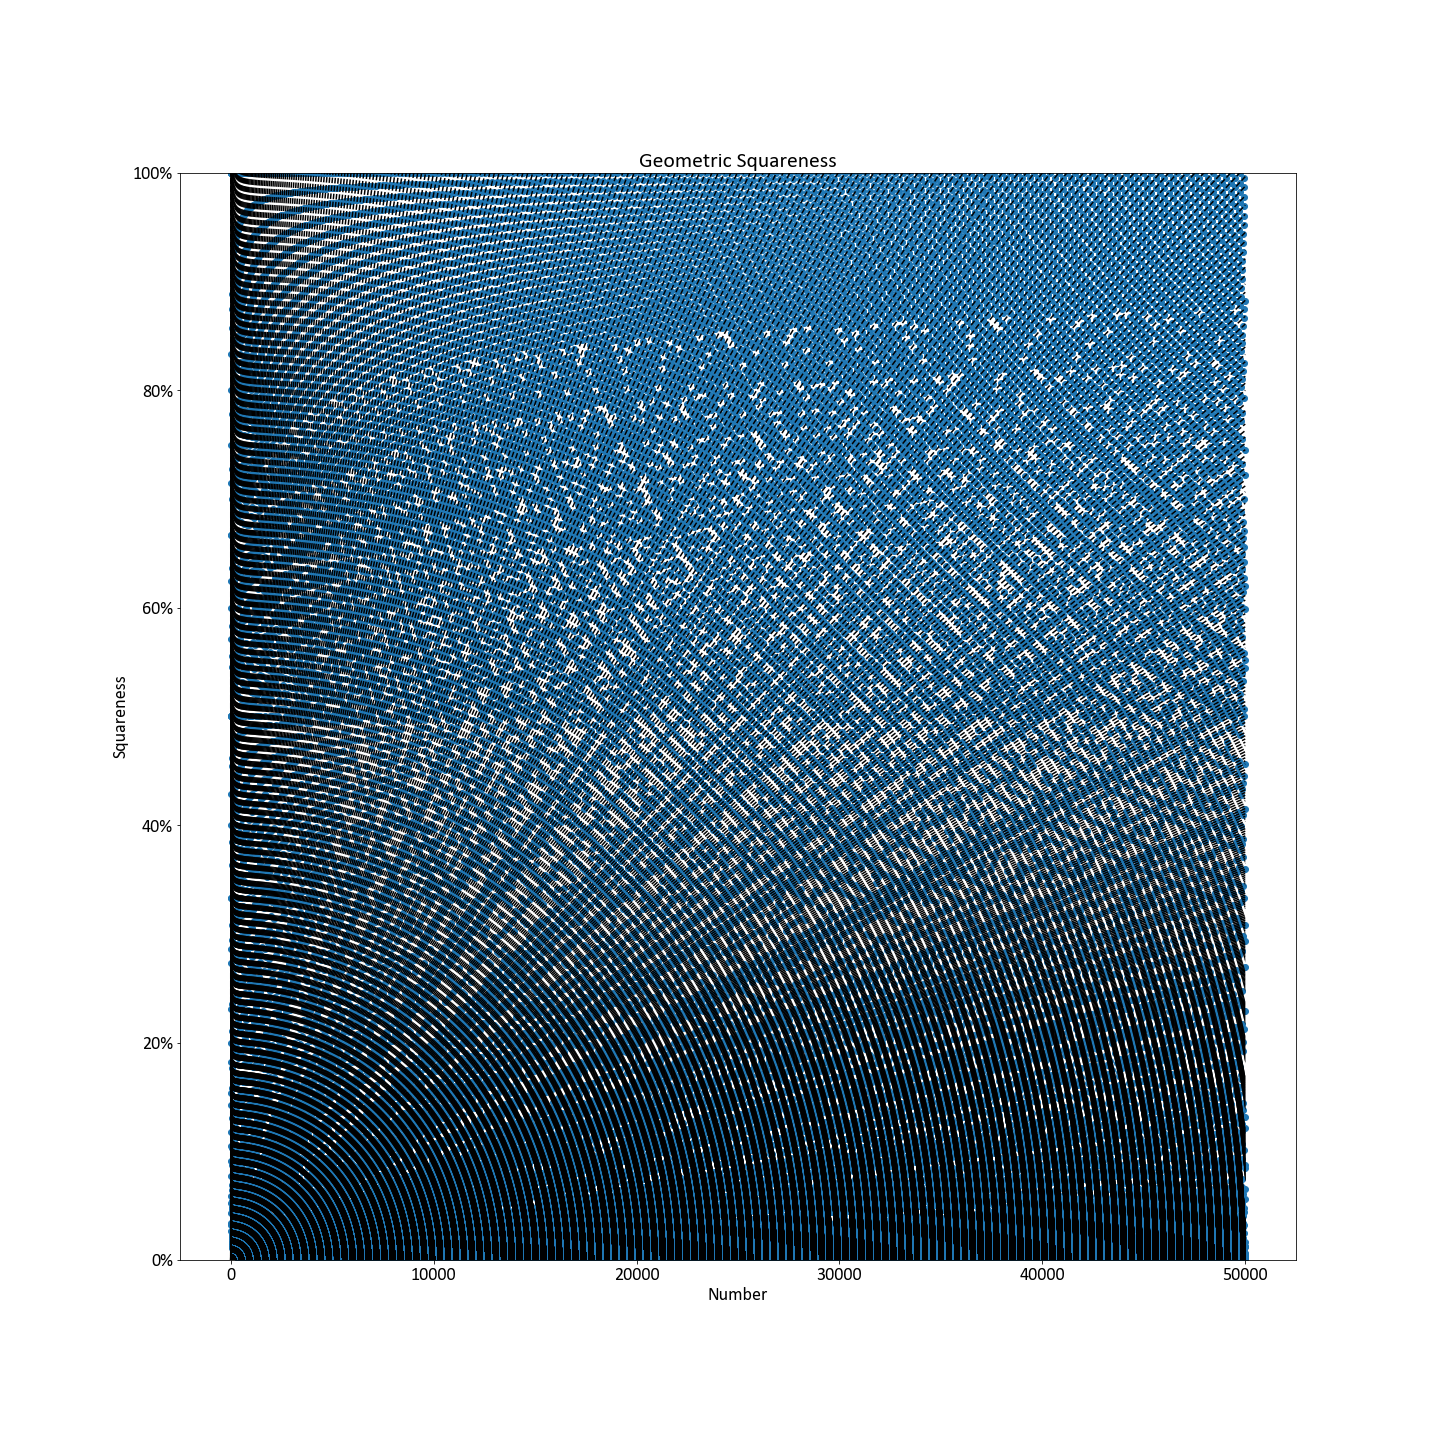
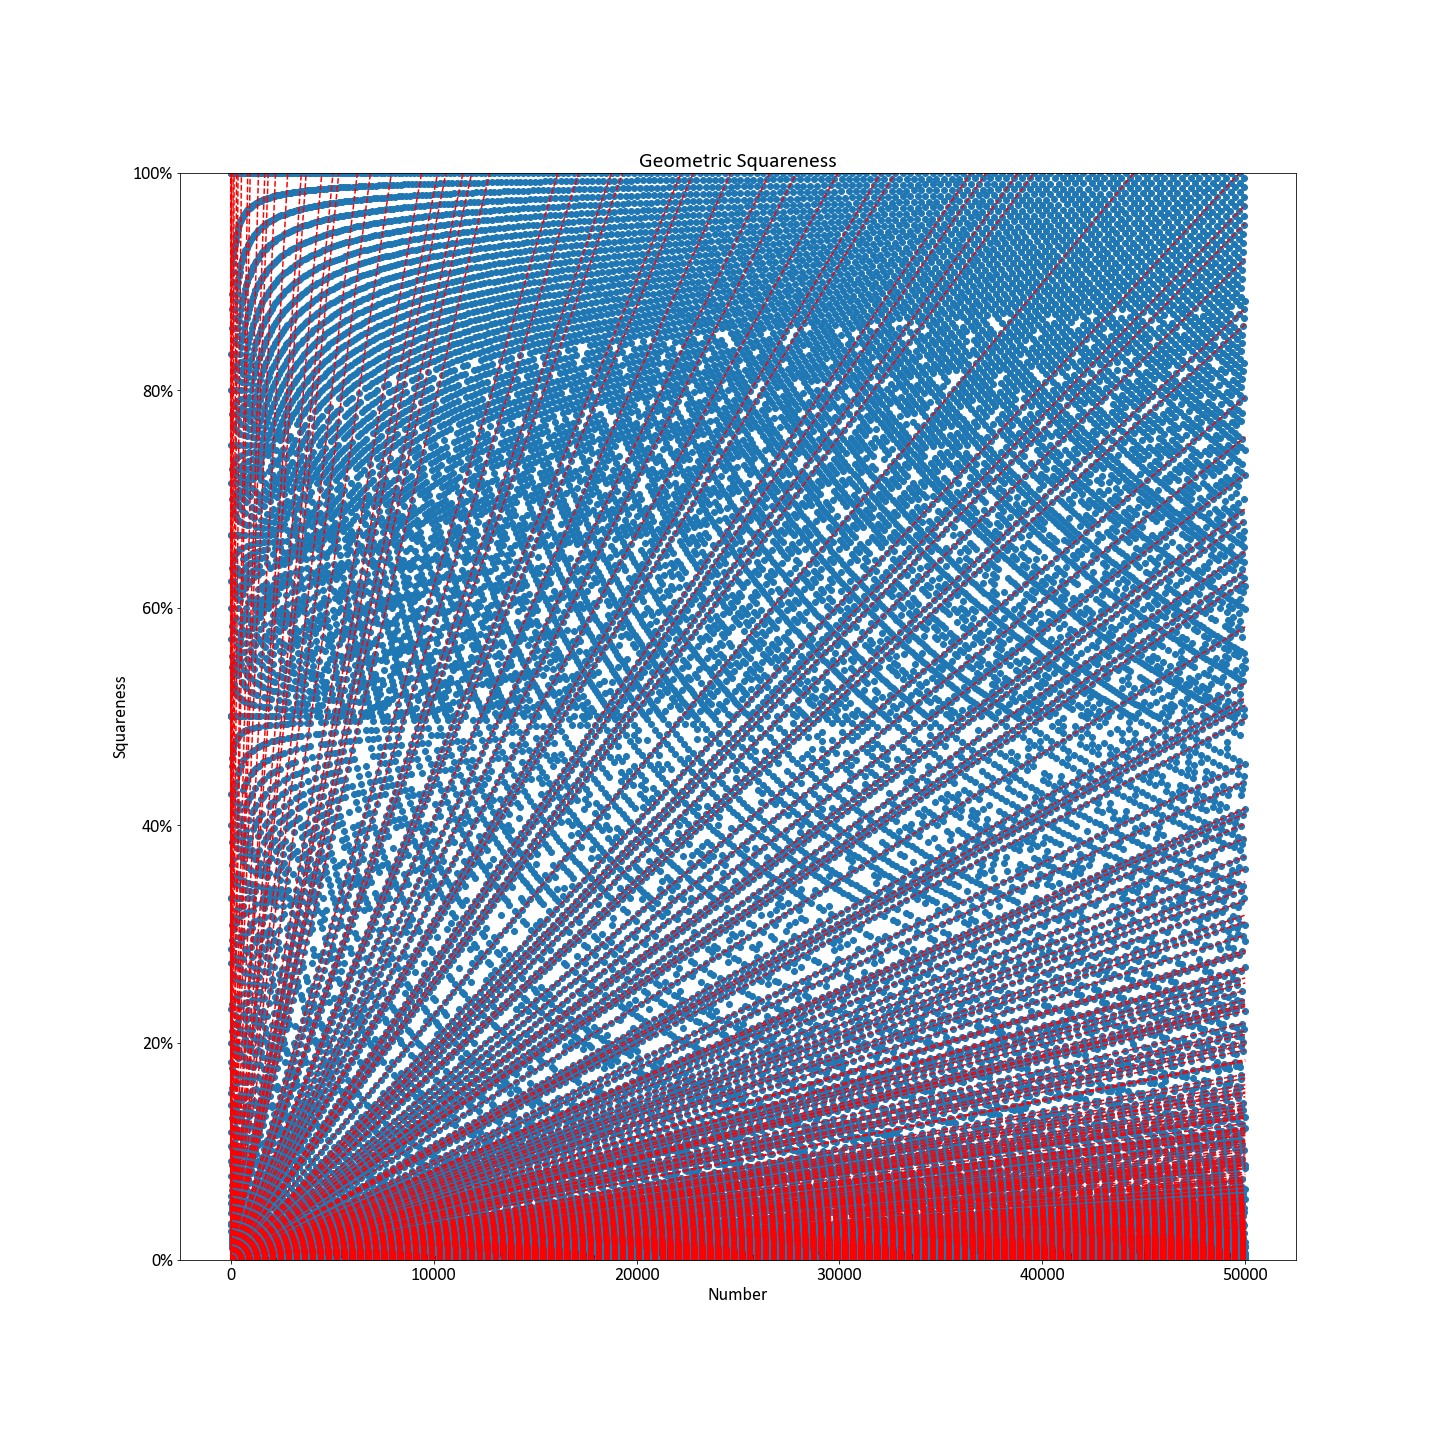
colour coded prime lines on plots

diff --git a/src/plot_geometric.py b/src/plot_geometric.py
@@ -3,6 +3,7 @@
 import matplotlib.pyplot as plt
 import matplotlib.ticker as tck
 import numpy as np
+from sympy import isprime
 
 from nav import GRAPH_PARENT_PATH
 from squareness import geometric_squareness
@@ -51,7 +52,8 @@ ax.set_ylabel("Squareness per $n$")
 ax.set_title("Geometric Squareness per $n$")
 ax.set_ylim(ymin, ymax)
 for val in range(2,70):
-    ax.axhline(1/val**2, ls='--', color='black')
+    color='red' if isprime(val) else 'black'
+    ax.axhline(1/val**2, ls='--', color=color)
 plt.savefig(GRAPH_PARENT_PATH / "geometric_squareness_normalized_to_50000_lines.png")
 
 # Up to 50,000 with annotations
@@ -60,8 +62,9 @@ y_min, y_max = 0, 1
 fig, ax = plt.subplots(figsize=(20, 20))
 ax.scatter(xs, ys)
 for val in range(2,10_000):
-    plot_ys = [plot_x/val**2 for plot_x in plot_xs]
-    ax.plot(plot_xs, plot_ys, ls='--', color='black')
+    if isprime(val):
+        plot_ys = [plot_x/val**2 for plot_x in plot_xs]
+        ax.plot(plot_xs, plot_ys, ls='--', color='red')
 ax.set_xlabel("Number")
 ax.set_ylabel("Squareness")
 ax.set_title("Geometric Squareness")
